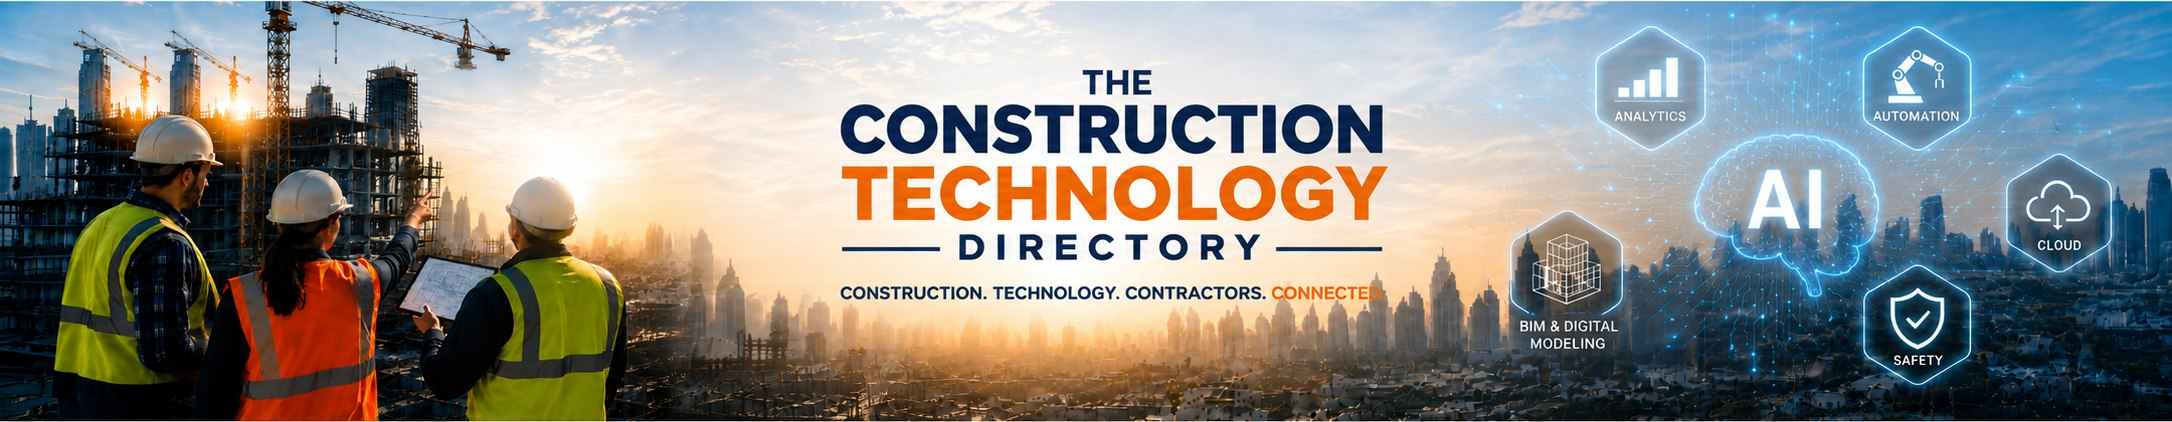
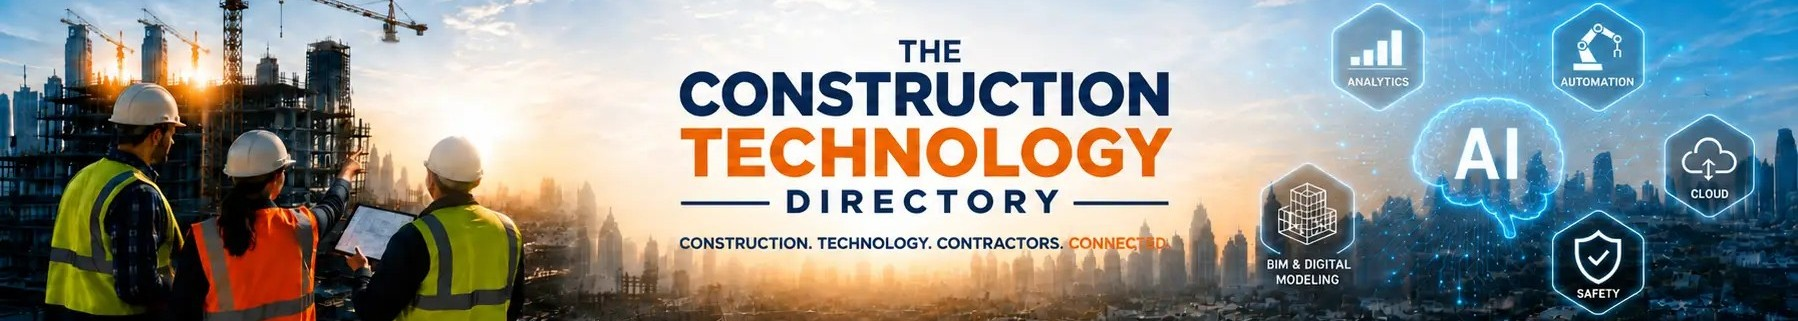
QC-01..07: quick fixes from the 09.04.26B corrections round
Header rename, back-link reposition, delete stale banner, fix a wrong link,
and swap the hero image to fix the clipped Safety icon. Everything else in
the client's doc (7 bigger items, 2 held pending clarification, Vendor Page)
is queued for a separate round - see specs/corrections-2026-09-04.md.

- QC-01/03: Search/Results header -> "SEARCH / RESULTS"; company count now
  its own left-aligned line.
- QC-02: "< Back to Home" moved above the header (was sharing the count
  line, SR-12). Caught and fixed a real bug this introduced: main's grid
  has one row per direct child, and adding back-link without a matching
  row shifted every row after it - the two-question panel collapsed to 0
  height and the results table painted over it.
- QC-04: removed the leftover "Now live..." banner and its now-dead CSS.
- QC-05: Dedicated Results' "Change Search" button linked to Advanced
  Search; now correctly links to Dedicated Search.
- QC-06/07: swapped in the client's shorter hero crop (1798x321, was
  2172x422) and removed the DF-01b short-landscape crop entirely - the
  old crop biased toward protecting the top hexagons at the SAFETY
  hexagon's expense, and the new art has no safe margin for any crop to
  land in without clipping something. The shorter ratio alone now does
  the space-saving job; verified all six hexagons render uncropped at
  every tested size, homepage still fits one screen at 1280x590.

Held for the client to clarify: centering the section-label headers (his
[…]

diff --git a/results.html b/results.html
@@ -33,7 +33,12 @@
       max-width:1620px;margin:0 auto;width:100%;
       padding:8px clamp(14px,2.2vw,26px) 8px;
       height:100%;min-height:0;overflow:hidden;
-      display:grid;grid-template-rows:auto auto auto minmax(0,1fr) auto;
+      /* 2026-09-04: 6 rows, not 5 - back-link is now its own row ahead of
+         ptop (was sharing ptop's count line). Every child of this grid
+         must have a matching row here or the rows after it shift into the
+         wrong track - that's what happens if this list and the child count
+         in the markup below ever drift apart. */
+      display:grid;grid-template-rows:auto auto auto auto minmax(0,1fr) auto;
       gap:6px;
     }
 
@@ -41,11 +46,11 @@
     .ptop{display:flex;align-items:flex-start;justify-content:space-between;gap:16px;flex-wrap:wrap}
     .ptop-l .phead{font-size:clamp(20px,2.3vw,26px);font-weight:900;letter-spacing:-.02em;color:var(--navy);margin:0 0 4px}
     .ptop-l .pcount{display:flex;align-items:center;gap:7px;font-size:12.5px;color:var(--ink)}
-    /* SR-12 — the Back to Home link shares the count line rather than taking a
-       row of its own, so the results table keeps every pixel it had. */
-    .back-link{display:inline-flex;align-items:center;gap:6px;font-size:12.5px;color:var(--vlink);font-weight:600;text-decoration:none}
+    /* 2026-09-04 correction: moved above the header (own row), was sharing
+       the count line to save a row of height (SR-12). Costs a few px of
+       results-table height; margin kept tight to limit it. */
+    .back-link{display:inline-flex;align-items:center;gap:6px;font-size:12.5px;color:var(--vlink);font-weight:600;text-decoration:none;margin-bottom:4px}
     .back-link:hover{text-decoration:underline}
-    .pcount-sep{width:1px;height:13px;background:var(--line);flex:none}
     .ptop-r{display:flex;gap:9px;flex-wrap:wrap}
     .btn-act{display:inline-flex;align-items:center;gap:7px;padding:6px 12px;border:1.5px solid #c8d6ee;border-radius:7px;font-size:12px;font-weight:600;background:#fff;color:var(--ink);cursor:pointer;white-space:nowrap;min-height:32px}
     .btn-act:hover{border-color:var(--navy)}
@@ -76,7 +81,6 @@
     .qsearch{flex:1;min-width:150px;display:flex;align-items:center;gap:8px;border:1.5px solid var(--line);border-radius:7px;padding:5px 9px;background:#f8fafc}
     .qsearch svg{flex:none;color:var(--muted)}
     .qsearch input{border:0;background:none;outline:none;flex:1;min-width:0;font-size:12.5px;color:var(--ink)}
-    .qnote{margin:0 0 7px;padding:5px 9px;border-left:2px solid var(--orange);background:#fdf4ee;border-radius:0 4px 4px 0;font-size:11px;line-height:1.4;color:#6b4a34}
     .qcols{display:grid;grid-template-columns:repeat(3,minmax(0,1fr));gap:8px 16px}
     .qcol{min-width:0}
     .qcol h3{display:flex;align-items:center;gap:6px;margin:0 0 5px;font-size:11px;font-weight:800;letter-spacing:.07em}
@@ -235,15 +239,14 @@
 <main>
 
   <!-- ═══════════ 2. TITLE ROW ═══════════ -->
+  <a class="back-link" href="index.html">
+    <svg width="14" height="14" viewBox="0 0 24 24" fill="none" stroke="currentColor" stroke-width="2.5" stroke-linecap="round" stroke-linejoin="round"><polyline points="15 18 9 12 15 6"/></svg>
+    Back to Home
+  </a>
   <div class="ptop">
     <div class="ptop-l">
-      <h1 class="phead">SEARCH RESULTS</h1>
+      <h1 class="phead">SEARCH / RESULTS</h1>
       <div class="pcount">
-        <a class="back-link" href="index.html">
-          <svg width="14" height="14" viewBox="0 0 24 24" fill="none" stroke="currentColor" stroke-width="2.5" stroke-linecap="round" stroke-linejoin="round"><polyline points="15 18 9 12 15 6"/></svg>
-          Back to Home
-        </a>
-        <span class="pcount-sep" aria-hidden="true"></span>
         <svg width="16" height="16" viewBox="0 0 24 24" fill="none" stroke="var(--blue)" stroke-width="2" stroke-linecap="round" stroke-linejoin="round"><circle cx="12" cy="7" r="3.2"/><path d="M6.5 20v-1.5a5.5 5.5 0 0111 0V20"/><circle cx="4.2" cy="10.5" r="2.3"/><path d="M1 19v-1a4 4 0 013.2-3.9"/><circle cx="19.8" cy="10.5" r="2.3"/><path d="M23 19v-1a4 4 0 00-3.2-3.9"/></svg>
         <span id="hero-count">Loading…</span>
       </div>
@@ -270,9 +273,6 @@
           <input type="text" placeholder="Start typing…" aria-label="Filter master trades, divisions and trades" data-qfilter="do">
         </div>
       </div>
-      <!-- Deliberately one line: at two lines this banner cost ~17px of the
-           vendor table's height budget on a 864px-tall viewport. -->
-      <p class="qnote" id="do-note">Now live — every vendor carries a master trade and a trade/division.</p>
       <div class="qcols">
         <div class="qcol qcol-blue">
           <h3><svg viewBox="0 0 24 24" fill="none" stroke="currentColor" stroke-width="2" stroke-linecap="round" stroke-linejoin="round"><path d="M3 21h18"/><path d="M5 21V8l7-5 7 5v13"/><path d="M10 21v-6h4v6"/></svg>MASTER TRADE</h3>

diff --git a/index.html b/index.html
@@ -66,11 +66,14 @@
          - cap the hero, object-cover   -> no gap, but the crop eats the
            ANALYTICS/AUTOMATION hexagons, whose outlines sit ~8% down.
 
-       The client's final art (2026-09-02) fixes the root cause: it is
-       5.15:1, so the same 1896px width needs only ~365px of height and
-       everything fits with room to spare. The white letterbox bars the
-       file shipped with were trimmed - content occupied rows 151-572 of
-       724, so the file on disk is the 2172x422 content band only.
+       The client's 2026-09-02 art fixed the root cause at 5.15:1. A
+       2026-09-04 re-crop (same composition, tighter top/bottom margins)
+       is even shorter at 5.60:1 (1798x321) - requested so the DF-02
+       short-landscape crop (below) has less height to remove. Content in
+       this file runs almost edge-to-edge vertically (cranes near row 0,
+       the SAFETY label near the last row), so there is close to zero safe
+       margin for object-position to crop into - see the short-landscape
+       block below, which leans on the shorter ratio instead of a crop.
 
        Sizing is aspect-ratio alone, which makes box ratio == image ratio
        by construction: nothing is ever cropped and a side gap is
@@ -78,7 +81,7 @@
        object-position stay purely as a safety net if the file's real
        ratio ever drifts from the value below; while they match, both are
        no-ops. */
-    .hero-band { aspect-ratio: 2172 / 422; }
+    .hero-band { aspect-ratio: 1798 / 321; }
     .hero-band img { object-position: center center; }
 
     /* ── Cross-browser safety net ──────────────────────────────────────
@@ -139,8 +142,15 @@
        the block above still holds, so the icons can't collapse. */
     @media (min-width: 1024px) and (max-height: 720px) {
       .fold-100 > header > div { height: clamp(58px, 9vh, 76px); }
-      .hero-band { max-height: 37vh; }
-      .hero-band img { object-position: center 28%; }   /* bias the crop downward so the top hexagons/hard-hats survive */
+      /* No hero max-height/crop here (2026-09-04). The 2026-09-02 art left
+         enough top/bottom margin to crop into safely; the 2026-09-04 re-crop
+         (aspect-ratio above) does not - SAFETY's label and the crane tops
+         both sit within a few px of the edge, so ANY object-position crop
+         clips one or the other. The shorter ratio itself already does the
+         space-saving job the crop used to do (see the aspect-ratio comment).
+         If a future hero art regresses back to a taller ratio, the crop can
+         come back - bias it toward the content that has the most margin,
+         checked in-browser, not assumed. */
       section[aria-label="Workflow categories"] > h2 { padding-top: 3px; padding-bottom: 3px; }
       section[aria-label="Discovery pathways"] a { padding-top: 9px; padding-bottom: 9px; }
     }
@@ -225,7 +235,7 @@
   <section class="hero-band relative w-full min-w-0 overflow-hidden bg-ctd-navy max-lg:max-h-none">
     <h1 class="sr-only">The Construction Technology Directory</h1>
     <h2 class="sr-only">Construction. Technology. Contractors. Connected.</h2>
-    <img src="assets/ctd/hero_image.jpg?v=202609021320" fetchpriority="high"
+    <img src="assets/ctd/hero_image.jpg?v=202609042215" fetchpriority="high"
          alt="The Construction Technology Directory — construction professionals reviewing plans on site, with AI, analytics, automation, cloud, safety and BIM technology nodes over a city skyline."
          class="h-full w-full select-none object-cover" draggable="false">
   </section>

diff --git a/dedicated-results.html b/dedicated-results.html
@@ -185,7 +185,7 @@
       <button class="btn-act" onclick="CTD_saveSearch()"><svg width="14" height="14" viewBox="0 0 24 24" fill="none" stroke="currentColor" stroke-width="2" stroke-linecap="round" stroke-linejoin="round"><path d="M19 21l-7-5-7 5V5a2 2 0 012-2h10a2 2 0 012 2z"/></svg>Save Search</button>
       <button class="btn-act" onclick="CTD_exportResults()"><svg width="14" height="14" viewBox="0 0 24 24" fill="none" stroke="currentColor" stroke-width="2" stroke-linecap="round" stroke-linejoin="round"><path d="M21 15v4a2 2 0 01-2 2H5a2 2 0 01-2-2v-4"/><polyline points="7 10 12 15 17 10"/><line x1="12" y1="15" x2="12" y2="3"/></svg>Export Results</button>
       <button class="btn-act" onclick="CTD_shareResults()"><svg width="14" height="14" viewBox="0 0 24 24" fill="none" stroke="currentColor" stroke-width="2" stroke-linecap="round" stroke-linejoin="round"><circle cx="18" cy="5" r="3"/><circle cx="6" cy="12" r="3"/><circle cx="18" cy="19" r="3"/><line x1="8.59" y1="13.51" x2="15.42" y2="17.49"/><line x1="15.41" y1="6.51" x2="8.59" y2="10.49"/></svg>Share Results</button>
-      <a class="btn-act btn-adv" href="advanced-search-results.html"><svg width="14" height="14" viewBox="0 0 24 24" fill="none" stroke="currentColor" stroke-width="2" stroke-linecap="round" stroke-linejoin="round"><line x1="4" y1="6" x2="20" y2="6"/><line x1="8" y1="12" x2="16" y2="12"/><line x1="11" y1="18" x2="13" y2="18"/></svg>Change Search</a>
+      <a class="btn-act btn-adv" href="dedicated-search.html"><svg width="14" height="14" viewBox="0 0 24 24" fill="none" stroke="currentColor" stroke-width="2" stroke-linecap="round" stroke-linejoin="round"><line x1="4" y1="6" x2="20" y2="6"/><line x1="8" y1="12" x2="16" y2="12"/><line x1="11" y1="18" x2="13" y2="18"/></svg>Change Search</a>
     </div>
   </div>
 

diff --git a/specs/corrections-2026-09-04.md b/specs/corrections-2026-09-04.md
@@ -1,0 +1,116 @@
+# 09.04.26B corrections — quick items
+
+**Source:** `09.04.26B Corrections.docx`, received 2026-09-04 (client, via Sakib). 22
+items across Miscellaneous, Footer, Home, Search/Results, Advanced Search/Results,
+Dedicated Search, Dedicated Results, and Vendor Page (10 colour mockups attached).
+**Scope of this round:** only the items confirmed quick — a few minutes each, no
+data model changes, don't depend on answers to the open questions below. The client
+explicitly deferred the Vendor Page template. Everything else from the doc (7 bigger
+items + 2 held items below) is a separate, later round.
+**Correction IDs:** `QC-01` … `QC-07` (Quick Correction)
+
+---
+
+## 1. What shipped
+
+### QC-01 · Search/Results — rename header
+`<h1 class="phead">` "SEARCH RESULTS" → **"SEARCH / RESULTS"**.
+
+### QC-02 · Search/Results — "< Back to Home" above the header
+Was sharing the count line (a deliberate space-save from a prior round, SR-12). Moved
+to its own row above `SEARCH / RESULTS`, at the client's request. Costs a few px of
+table height on short screens - accepted.
+
+**Implementation note:** `main` on this page is `display:grid` with an explicit
+`grid-template-rows` list, one track per direct child. Adding `.back-link` as a new
+child in front of `.ptop` without adding a 6th row track silently shifted every
+element after it into the wrong grid row - the two-question panel collapsed to 0
+height and the results table painted over it. Fixed by adding the row track. Left an
+inline comment warning the next person this grid needs its child count and its
+`grid-template-rows` list kept in sync.
+
+### QC-03 · Search/Results — company count to the left margin
+Now its own line under the header (a side effect of QC-02 - once the back-link
+left the `.pcount` row, the count text became the sole item on it, at the left
+margin). `.pcount-sep` (the separator between the two) removed as dead CSS.
+
+### QC-04 · Search/Results — delete the "Now live…" banner
+Removed the `#do-note` banner ("Now live — every vendor carries a master trade and a
+trade/division") from the "WHAT DO YOU DO?" panel - leftover announcement copy from
+the hierarchy-import round, no longer needed. `.qnote` CSS (now unused) removed too.
+
+### QC-05 · Dedicated Results — fix the "Change Search" link
+Was `href="advanced-search-results.html"`; client reported it should go back to
+Dedicated Search. Fixed to `href="dedicated-search.html"`.
+
+### QC-06 · Homepage — hero art swap (fixes the clipped Safety icon)
+Client reported "Part of Safety is cut off." Root cause: the DF-01b short-landscape
+rule (`specs/display-format-2026-09-02.md`) crops the hero on short viewports with
+`object-position: center 28%`, biased to protect the top hexagons - which sacrifices
+bottom content, where SAFETY sits. That crop was tuned against the 2026-09-02 art
+(5.15:1); the client supplied a new, shorter crop of the same composition,
+**1798×321 = 5.60:1** (`assets/ctd/hero_image.jpg`, was 2172×422). The new file's
+content runs close to edge-to-edge vertically (cranes near row 0, the SAFETY label
+near the last row) - there is no safe margin left for *any* object-position crop to
+land in without clipping something.
+
+**Fix:** swapped the file in, updated `.hero-band`'s `aspect-ratio` to match exactly
+(2172/422 → 1798/321 - keeps the "box ratio == image ratio, nothing ever cropped"
+invariant from the original hero design), and **removed** the DF-01b `max-height` /
+`object-position` crop entirely - the shorter ratio alone now does the space-saving
+job the crop used to do, at zero crop risk. Verified in-browser: at 1280×590 the hero
+renders at its full natural height (226px) with all six hexagons visible and the
+homepage still fits one screen (`findBottomVsViewport: 0`); at 1280×560 it's a
+negligible 8px of scroll, still zero cropping.
+
+### QC-07 · Homepage — Safety icon "cut off" (folded into QC-06)
+Same root cause as QC-06; no separate fix needed once the hero stopped being cropped.
+
+---
+
+## 2. Held, not done this round
+
+- **"Center all SECTION LABELS"** (client's own doc says "(unsure)," both times it
+  appears) — the labels in question (`.qcard-hd h2` on Search/Results,
+  `.sel-card-hd h3` on Dedicated Search) sit in flex header bars alongside a search
+  box or a sort button. Centering the text does nothing visible (auto-width flex
+  item); centering the *bar* would displace the control next to it. Given the
+  client's own hedge and the real risk of silently breaking those bars, held for a
+  decision rather than guessed at.
+- **Renaming the 6 page `<title>` tags** to the client's canonical list (Home Page,
+  Search/Results Page, …) — on inspection, `index.html`'s `<title>` is a deliberately
+  written SEO title ("Find the Right Software for Your Construction Business"), not
+  literally "Home Page." Changing it without confirming that's actually wanted risks
+  an SEO regression for no visible user benefit. Folded into the open "pages are out
+  of order" question below rather than executed blindly.
+- Move Company Size into the Advanced Filters panel, the taxonomy relabeling, the new
+  orange section bars, the footer restructure, multi-product display, the Advanced
+  Search Description column / "more…" link, the Dedicated Results scroll-list change,
+  and the AI-logo click-through — all confirmed as "more than a few minutes," queued
+  for their own round once the client answers the open questions.
+
+## 3. Open questions sent to the client
+
+1. Public/Private company filter shows 0 for both, greyed out - confirmed this is
+   unpopulated data (`public_private = "Unknown / Verify"` for every vendor, per
+   `hierarchy-import.md` §2.3), not a bug. Keep hidden until real data, or show it
+   with 0s now?
+2. "Replicate the category page so I can format it" - which page, and duplicate vs.
+   feedback on the existing one?
+3. "Pages are out of order" - order of what: nav menu, URL/file order, or the
+   click-through sequence? (Also covers the page-title-rename question above.)
+
+---
+
+## 4. Build log — 2026-09-04
+
+Verified in-browser (local build):
+
+| Check | Result |
+|---|---|
+| Search/Results header, back-link, count position | Correct at 1280×590 and 1536×864; two-question panel no longer collapses (grid row-count bug caught and fixed before shipping) |
+| "Now live…" banner gone | Confirmed, no stray references left in JS or CSS |
+| Dedicated Results "Change Search" → Dedicated Search | Confirmed via link inspection |
+| Hero swap - all 6 hexagons visible | 1280×590, 1280×560, 1280×720, 1536×864, 1920×1080 - no cropping anywhere (`object-position: 50% 50%`, `max-height: none` at every size) |
+| Homepage still fits one screen at 1280×590 | `findBottomVsViewport: 0` |
+| No console errors, no new horizontal scroll | Confirmed on Search/Results and homepage |
